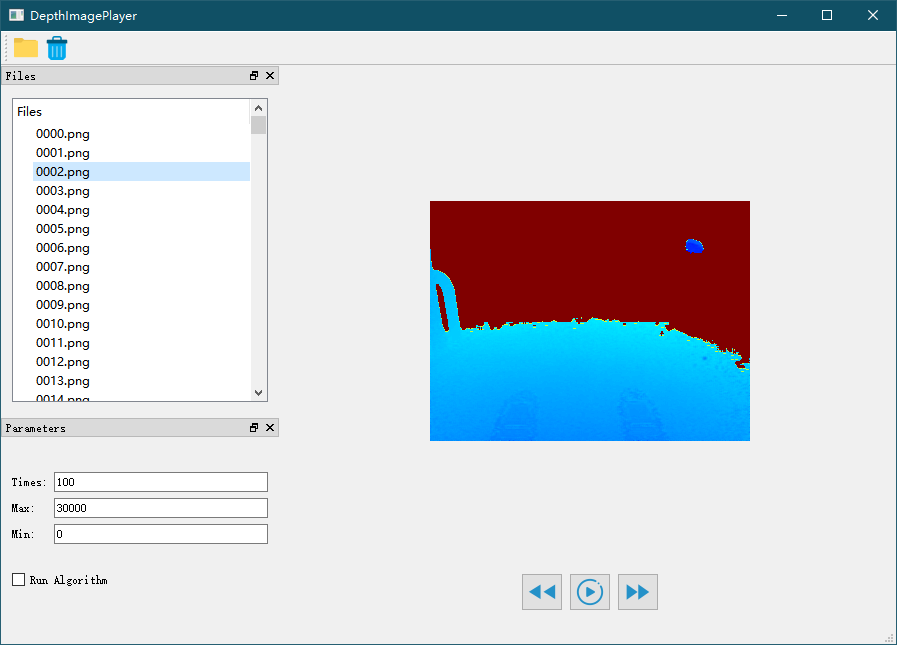
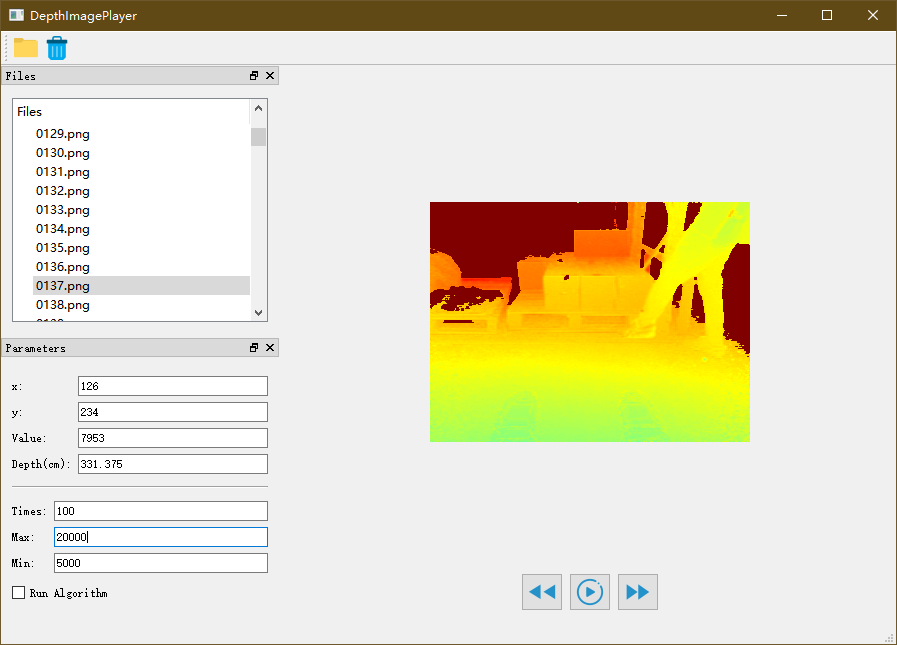
点击图片显示数值

diff --git a/DepthImagePlayer/GeneratedFiles/ui_depthimageplayer.h b/DepthImagePlayer/GeneratedFiles/ui_depthimageplayer.h
@@ -15,6 +15,7 @@
 #include <QtWidgets/QButtonGroup>
 #include <QtWidgets/QCheckBox>
 #include <QtWidgets/QDockWidget>
+#include <QtWidgets/QFrame>
 #include <QtWidgets/QGridLayout>
 #include <QtWidgets/QHBoxLayout>
 #include <QtWidgets/QHeaderView>
@@ -40,11 +41,13 @@ public:
     QWidget *centralWidget;
     QHBoxLayout *horizontalLayout_2;
     QVBoxLayout *verticalLayout_2;
+    QSpacerItem *verticalSpacer_2;
     QHBoxLayout *horizontalLayout_3;
     QSpacerItem *horizontalSpacer_3;
     QLabel *labelImageOri;
     QLabel *lableImageRst;
     QSpacerItem *horizontalSpacer_4;
+    QSpacerItem *verticalSpacer;
     QHBoxLayout *horizontalLayout_4;
     QSpacerItem *horizontalSpacer;
     QPushButton *pushButtonLast;
@@ -61,6 +64,16 @@ public:
     QDockWidget *dockWidgetParameters;
     QWidget *dockWidgetContents_2;
     QVBoxLayout *verticalLayout_4;
+    QGridLayout *gridLayout_2;
+    QLabel *label_6;
+    QLabel *label_5;
+    QLineEdit *lineEditValue;
+    QLabel *label_4;
+    QLineEdit *lineEditX;
+    QLineEdit *lineEditY;
+    QLabel *label_7;
+    QLineEdit *lineEditDepth;
+    QFrame *line;
     QGridLayout *gridLayout;
     QLineEdit *lineEditMax;
     QLineEdit *lineEditTimes;
@@ -95,6 +108,10 @@ public:
         verticalLayout_2->setSpacing(6);
         verticalLayout_2->setObjectName(QStringLiteral("verticalLayout_2"));
         verticalLayout_2->setContentsMargins(-1, -1, -1, 0);
+        verticalSpacer_2 = new QSpacerItem(20, 40, QSizePolicy::Minimum, QSizePolicy::Expanding);
+
+        verticalLayout_2->addItem(verticalSpacer_2);
+
         horizontalLayout_3 = new QHBoxLayout();
         horizontalLayout_3->setSpacing(6);
         horizontalLayout_3->setObjectName(QStringLiteral("horizontalLayout_3"));
@@ -118,6 +135,10 @@ public:
 
 
         verticalLayout_2->addLayout(horizontalLayout_3);
+
+        verticalSpacer = new QSpacerItem(20, 40, QSizePolicy::Minimum, QSizePolicy::Expanding);
+
+        verticalLayout_2->addItem(verticalSpacer);
 
         horizontalLayout_4 = new QHBoxLayout();
         horizontalLayout_4->setSpacing(6);
@@ -198,13 +219,72 @@ public:
         DepthImagePlayerClass->addDockWidget(static_cast<Qt::DockWidgetArea>(1), dockWidgetFiles);
         dockWidgetParameters = new QDockWidget(DepthImagePlayerClass);
         dockWidgetParameters->setObjectName(QStringLiteral("dockWidgetParameters"));
-        dockWidgetParameters->setMinimumSize(QSize(200, 136));
+        dockWidgetParameters->setMinimumSize(QSize(200, 251));
         dockWidgetContents_2 = new QWidget();
         dockWidgetContents_2->setObjectName(QStringLiteral("dockWidgetContents_2"));
         verticalLayout_4 = new QVBoxLayout(dockWidgetContents_2);
         verticalLayout_4->setSpacing(6);
         verticalLayout_4->setContentsMargins(11, 11, 11, 11);
         verticalLayout_4->setObjectName(QStringLiteral("verticalLayout_4"));
+        gridLayout_2 = new QGridLayout();
+        gridLayout_2->setSpacing(6);
+        gridLayout_2->setObjectName(QStringLiteral("gridLayout_2"));
+        gridLayout_2->setContentsMargins(-1, -1, -1, 0);
+        label_6 = new QLabel(dockWidgetContents_2);
+        label_6->setObjectName(QStringLiteral("label_6"));
+
+        gridLayout_2->addWidget(label_6, 2, 0, 1, 1);
+
+        label_5 = new QLabel(dockWidgetContents_2);
+        label_5->setObjectName(QStringLiteral("label_5"));
+
+        gridLayout_2->addWidget(label_5, 1, 0, 1, 1);
+
+        lineEditValue = new QLineEdit(dockWidgetContents_2);
+        lineEditValue->setObjectName(QStringLiteral("lineEditValue"));
+        lineEditValue->setReadOnly(true);
+
+        gridLayout_2->addWidget(lineEditValue, 2, 1, 1, 1);
+
+        label_4 = new QLabel(dockWidgetContents_2);
+        label_4->setObjectName(QStringLiteral("label_4"));
+
+        gridLayout_2->addWidget(label_4, 0, 0, 1, 1);
+
+        lineEditX = new QLineEdit(dockWidgetContents_2);
+        lineEditX->setObjectName(QStringLiteral("lineEditX"));
+        lineEditX->setEnabled(true);
+        lineEditX->setReadOnly(true);
+
+        gridLayout_2->addWidget(lineEditX, 0, 1, 1, 1);
+
+        lineEditY = new QLineEdit(dockWidgetContents_2);
+        lineEditY->setObjectName(QStringLiteral("lineEditY"));
+        lineEditY->setReadOnly(true);
+
+        gridLayout_2->addWidget(lineEditY, 1, 1, 1, 1);
+
+        label_7 = new QLabel(dockWidgetContents_2);
+        label_7->setObjectName(QStringLiteral("label_7"));
+
+        gridLayout_2->addWidget(label_7, 3, 0, 1, 1);
+
+        lineEditDepth = new QLineEdit(dockWidgetContents_2);
+        lineEditDepth->setObjectName(QStringLiteral("lineEditDepth"));
+        lineEditDepth->setReadOnly(true);
+
+        gridLayout_2->addWidget(lineEditDepth, 3, 1, 1, 1);
+
+
+        verticalLayout_4->addLayout(gridLayout_2);
+
+        line = new QFrame(dockWidgetContents_2);
+        line->setObjectName(QStringLiteral("line"));
+        line->setFrameShape(QFrame::HLine);
+        line->setFrameShadow(QFrame::Sunken);
+
+        verticalLayout_4->addWidget(line);
+
         gridLayout = new QGridLayout();
         gridLayout->setSpacing(6);
         gridLayout->setObjectName(QStringLiteral("gridLayout"));
@@ -271,6 +351,10 @@ public:
         QTreeWidgetItem *___qtreewidgetitem = dataTreeFiles->headerItem();
         ___qtreewidgetitem->setText(0, QApplication::translate("DepthImagePlayerClass", "Files", 0));
         dockWidgetParameters->setWindowTitle(QApplication::translate("DepthImagePlayerClass", "Parameters", 0));
+        label_6->setText(QApplication::translate("DepthImagePlayerClass", "Value:", 0));
+        label_5->setText(QApplication::translate("DepthImagePlayerClass", "y:", 0));
+        label_4->setText(QApplication::translate("DepthImagePlayerClass", "x:", 0));
+        label_7->setText(QApplication::translate("DepthImagePlayerClass", "Depth(cm):", 0));
         lineEditMax->setText(QApplication::translate("DepthImagePlayerClass", "30000", 0));
         lineEditTimes->setText(QApplication::translate("DepthImagePlayerClass", "100", 0));
         label->setText(QApplication::translate("DepthImagePlayerClass", "Max:", 0));

diff --git a/README.md b/README.md
@@ -30,7 +30,12 @@ Qt 5.7.0  64bit
 ### 2. 伪彩色染色
 在![伪彩色](image/3.png "伪彩色")可以设置伪彩色范围，设置最大值和最小值区间越小图像细节越丰富。  
 
-### 3. 图片播放
+### 3. 查看图像数据
+在图像上单击左键可以查看当前点的像素坐标、数值和对应的深度距离。  
+这里数值和深度的转换公式是 depth = value * 1250 / 30000。  
+![深度](image/11.png "深度") 
+
+### 4. 图片播放
 #### 上一张
 点击![上一张](image/4.png "上一张") 按钮可以切换到上一张图像。  
 #### 下一张
@@ -41,12 +46,12 @@ Qt 5.7.0  64bit
 ![间隔时间](image/8.png "间隔时间")可以设置每张图片加载的间隔时间。  
 **如果没有启用算法或图片读取速度较快，建议间隔时间不要设置太小**
 
-### 4. 算法模块
+### 5. 算法模块
 为了方便验证算法，可以在源码合适位置添加算法模块，勾选![算法模块](image/10.png "算法模块")启用算法模块，将计算结果显示到窗口。
 
 # Plane
 * 快速文件重命名工具。  
-* 增加点按查看原像素数据功能。  
+* 大量图片分段加载。   
 * 语言切换功能。  
 
 # Version
